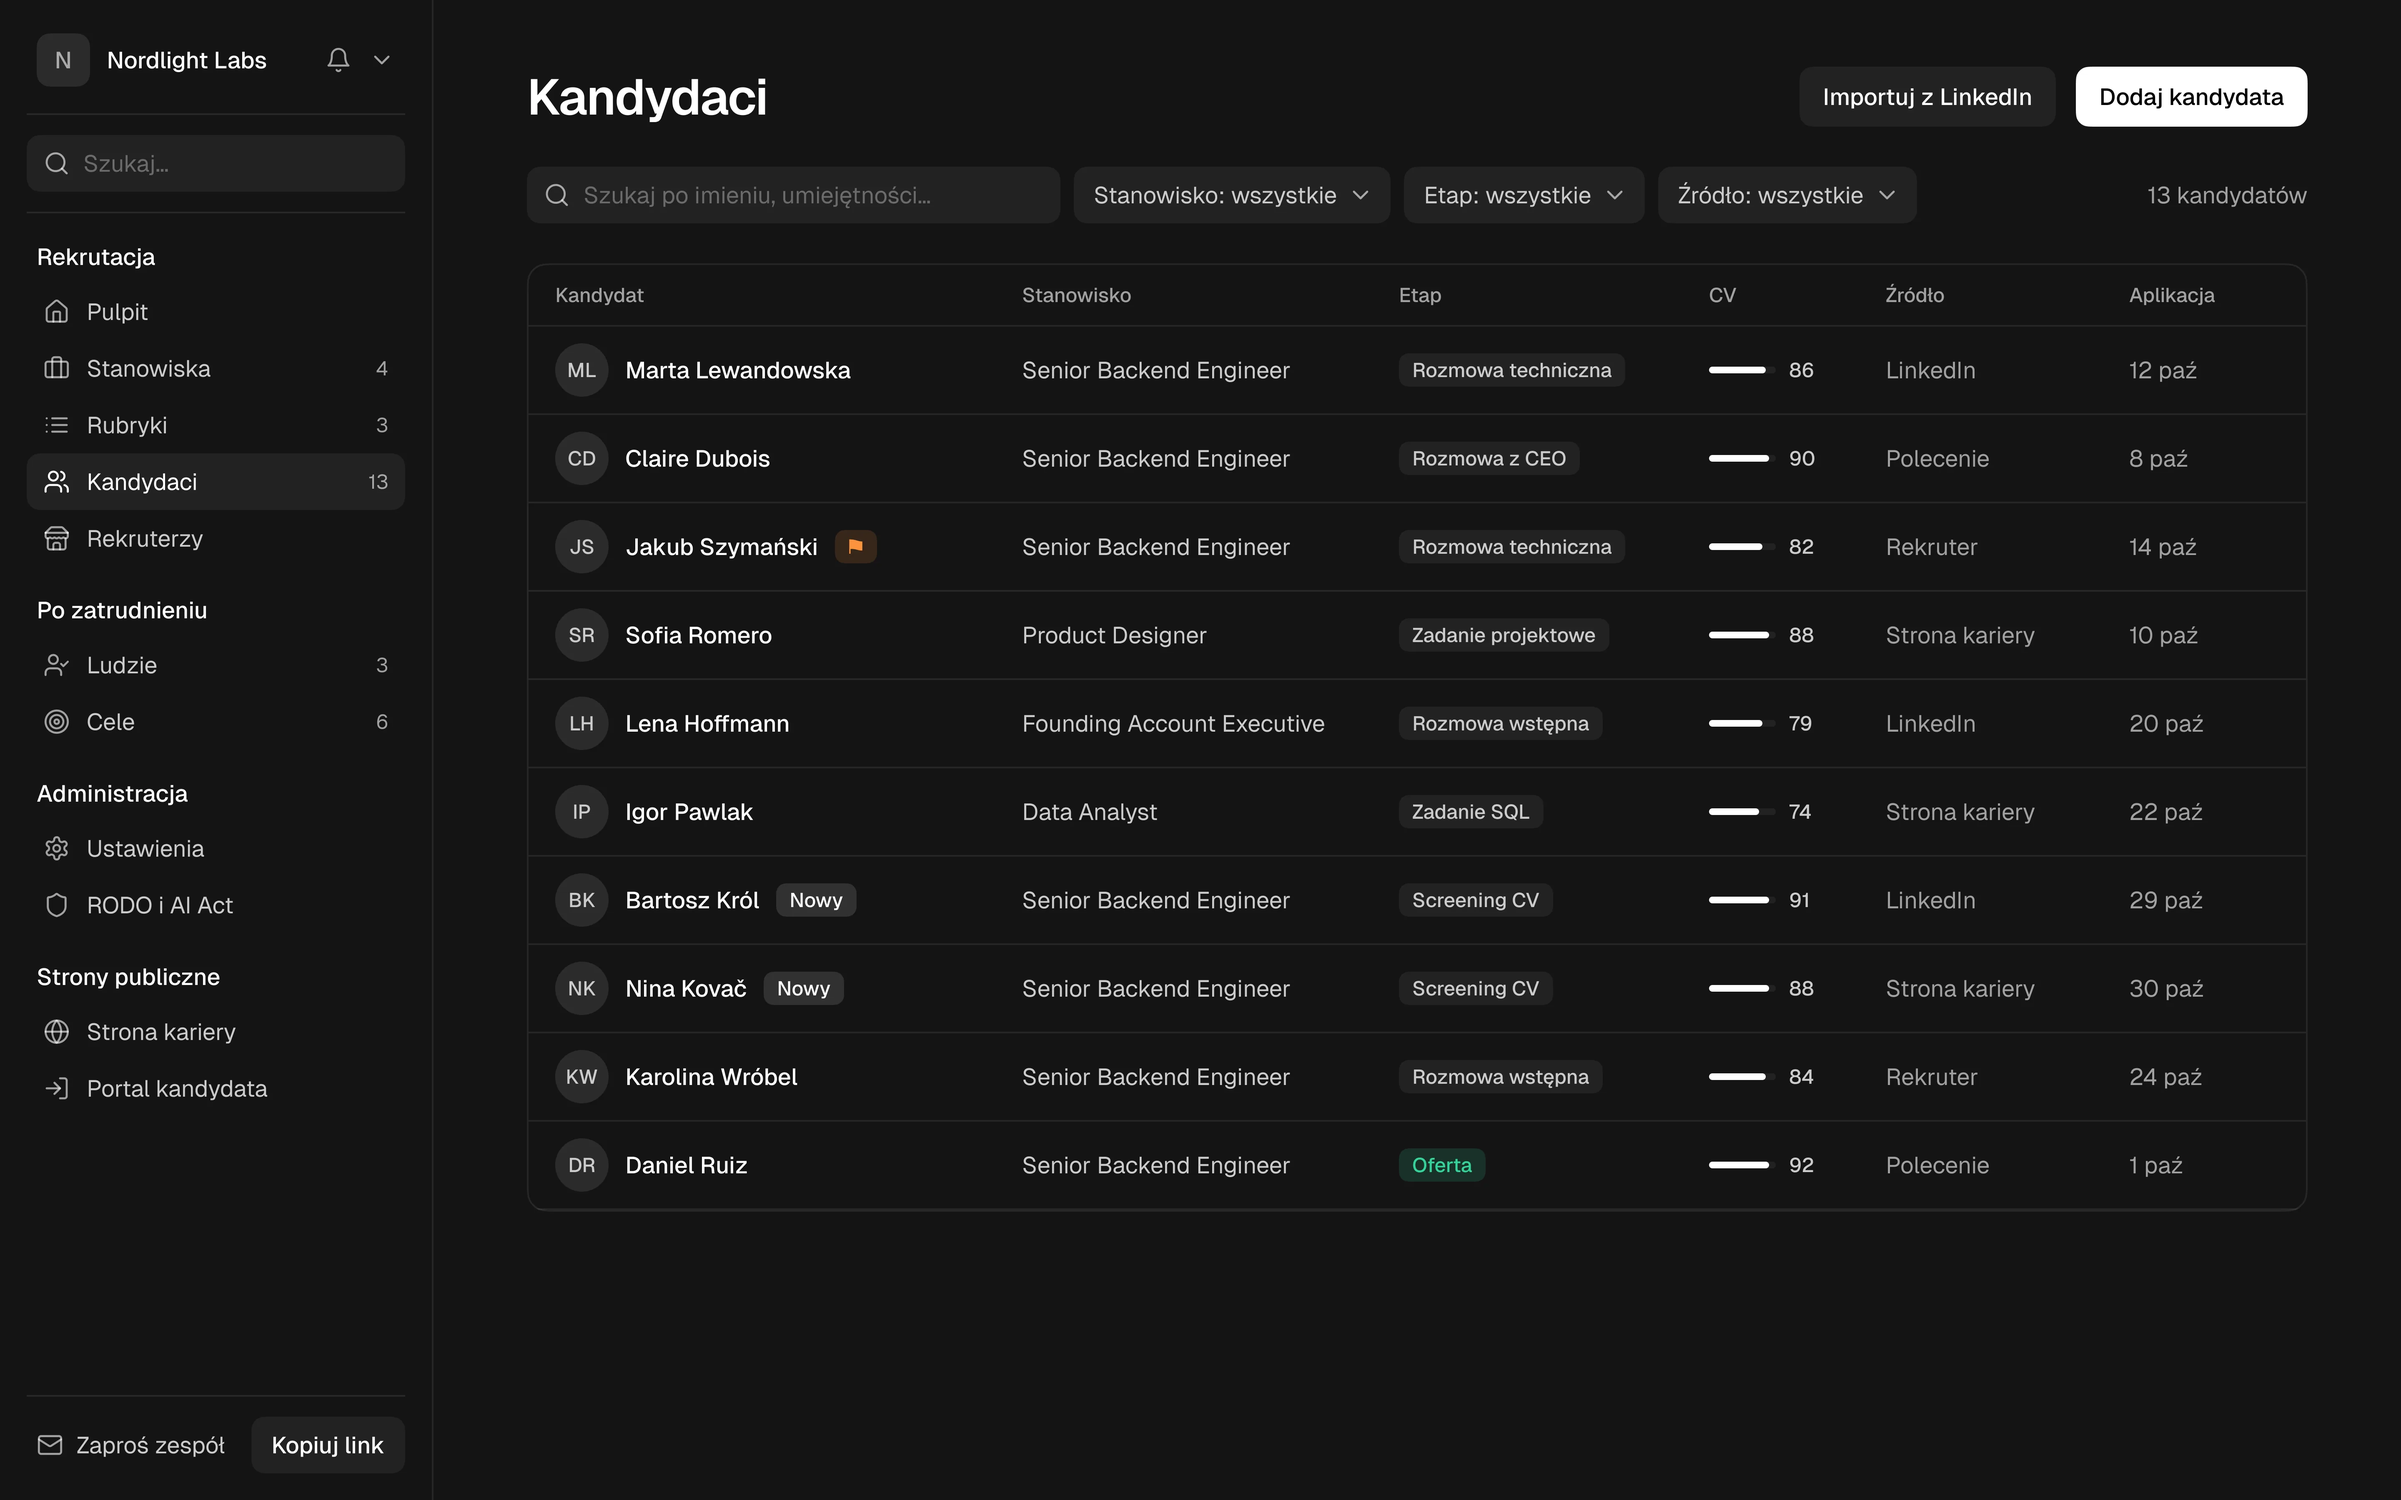
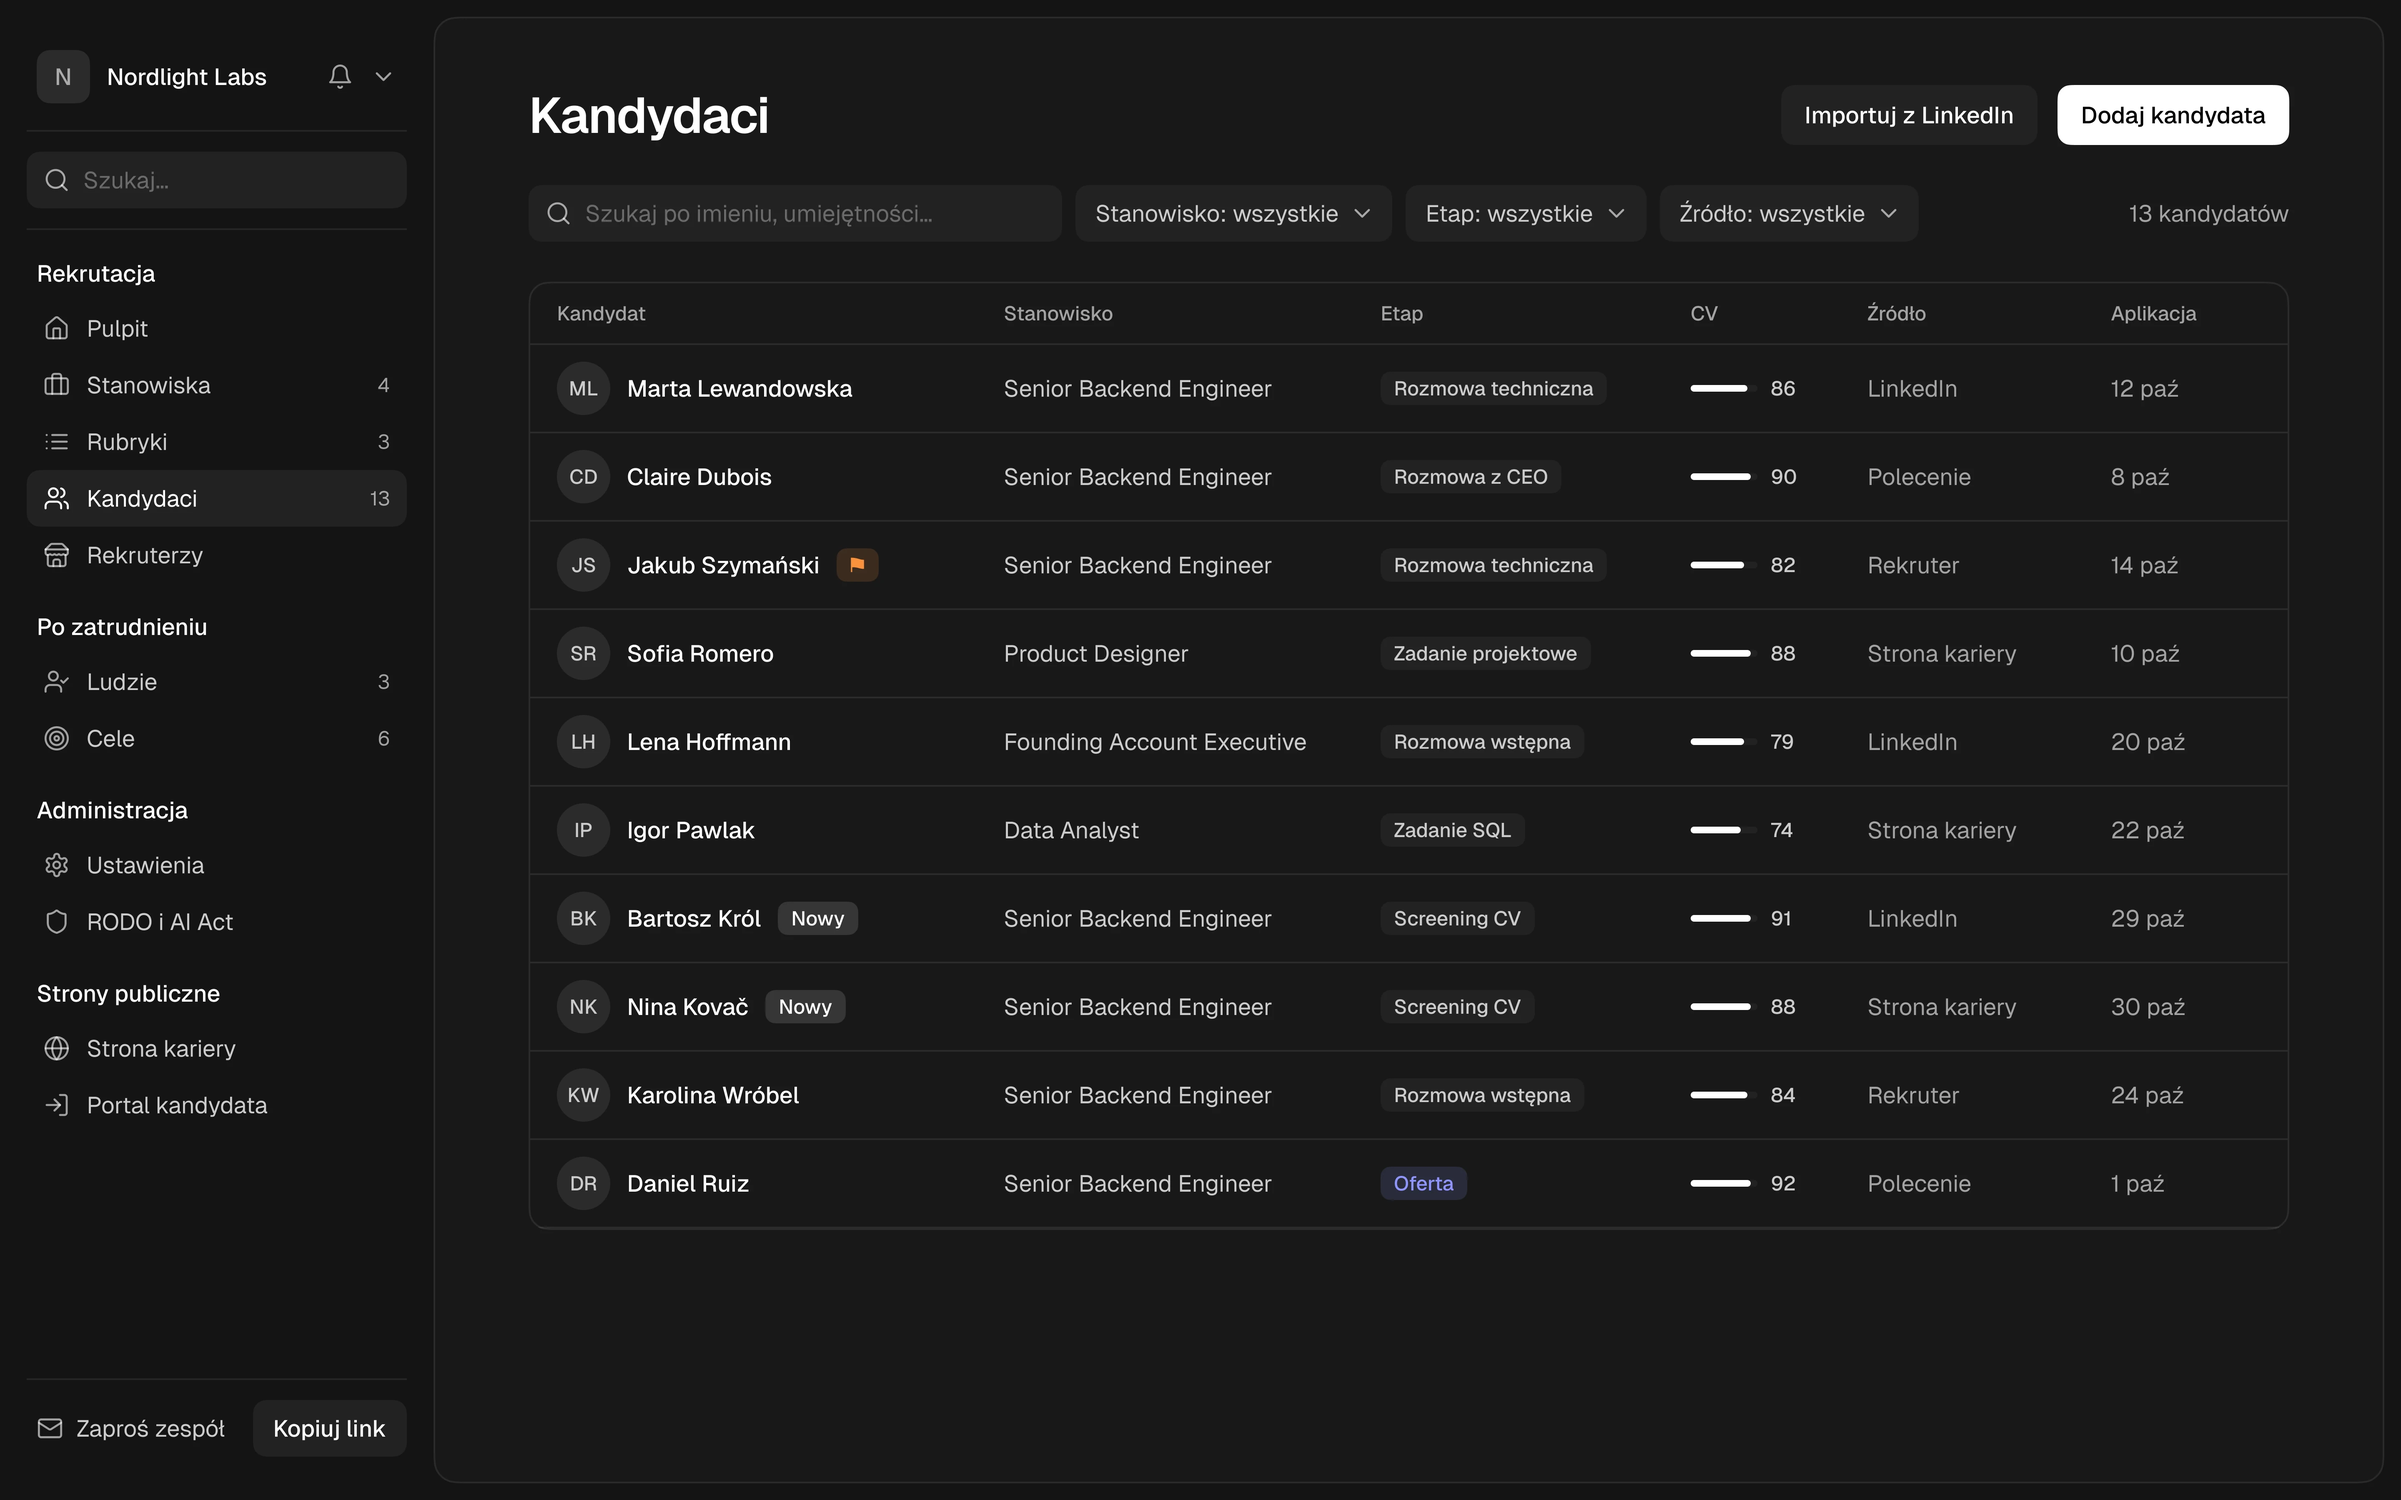
Galeria ekranów: styl Linear (wcięty panel, ciepła szarość, indygo AI), eksport x4
Claude-Session: https://claude.ai/code/session_011jafF1ujRt61ECkovT2K22

diff --git a/site/index.html b/site/index.html
@@ -266,10 +266,10 @@
       <h2>Tak wygląda Tekma <span class="gr">w środku.</span></h2>
       <p class="lede">Prawdziwe ekrany aplikacji, z danymi przykładowymi. Jasne, spokojne, bez zbędnych ozdobników.</p>
     </div>
-    <div class="shots" id="shots" data-shots='[{"src": "assets/screens/dashboard.webp", "t": "Pulpit", "d": "Co dziś wymaga Twojej uwagi — rozbieżne oceny, braki w stanowiskach, liczniki procesu.", "w": 1440, "h": 1014}, {"src": "assets/screens/positions.webp", "t": "Stanowiska", "d": "Wszystkie rekrutacje w jednym miejscu, z mini-lejkiem i rubryką przypisaną do roli.", "w": 1440, "h": 900}, {"src": "assets/screens/pipeline.webp", "t": "Lejek", "d": "Kandydaci w etapach. Przeciągnij kartę albo użyj klawiatury — o ruchu zawsze decydujesz Ty.", "w": 1440, "h": 900}, {"src": "assets/screens/candidates.webp", "t": "Kandydaci", "d": "Wspólna baza z wyszukiwaniem, filtrami i dopasowaniem CV jako sugestią AI.", "w": 1440, "h": 900}, {"src": "assets/screens/scorecard.webp", "t": "Karta oceny", "d": "Pytania z rubryki, kotwice ocen i sugestie AI z cytatem z rozmowy.", "w": 1440, "h": 900}, {"src": "assets/screens/scorecard-diff.webp", "t": "Rozbieżności", "d": "Gdy oceny są rozbieżne, Tekma flaguje to, zanim zapadnie decyzja.", "w": 1440, "h": 934}, {"src": "assets/screens/rubrics.webp", "t": "Rubryki", "d": "Pytania, wagi i kotwice w wersjach — ta sama miarka dla każdego kandydata.", "w": 1440, "h": 900}]'>
+    <div class="shots" id="shots" data-shots='[{"src": "assets/screens/dashboard.webp?v=linear1", "t": "Pulpit", "d": "Co dziś wymaga Twojej uwagi — rozbieżne oceny, braki w stanowiskach, liczniki procesu.", "w": 1440, "h": 1014}, {"src": "assets/screens/positions.webp?v=linear1", "t": "Stanowiska", "d": "Wszystkie rekrutacje w jednym miejscu, z mini-lejkiem i rubryką przypisaną do roli.", "w": 1440, "h": 900}, {"src": "assets/screens/pipeline.webp?v=linear1", "t": "Lejek", "d": "Kandydaci w etapach. Przeciągnij kartę albo użyj klawiatury — o ruchu zawsze decydujesz Ty.", "w": 1440, "h": 900}, {"src": "assets/screens/candidates.webp?v=linear1", "t": "Kandydaci", "d": "Wspólna baza z wyszukiwaniem, filtrami i dopasowaniem CV jako sugestią AI.", "w": 1440, "h": 900}, {"src": "assets/screens/scorecard.webp?v=linear1", "t": "Karta oceny", "d": "Pytania z rubryki, kotwice ocen i sugestie AI z cytatem z rozmowy.", "w": 1440, "h": 900}, {"src": "assets/screens/scorecard-diff.webp?v=linear1", "t": "Rozbieżności", "d": "Gdy oceny są rozbieżne, Tekma flaguje to, zanim zapadnie decyzja.", "w": 1440, "h": 934}, {"src": "assets/screens/rubrics.webp?v=linear1", "t": "Rubryki", "d": "Pytania, wagi i kotwice w wersjach — ta sama miarka dla każdego kandydata.", "w": 1440, "h": 900}]'>
       <div class="shots-tabs" role="tablist" aria-label="Ekrany aplikacji"><button type="button" role="tab" id="tab-dashboard" aria-selected="true" aria-controls="shot" data-i="0" tabindex="0">Pulpit</button><button type="button" role="tab" id="tab-positions" aria-selected="false" aria-controls="shot" data-i="1" tabindex="-1">Stanowiska</button><button type="button" role="tab" id="tab-pipeline" aria-selected="false" aria-controls="shot" data-i="2" tabindex="-1">Lejek</button><button type="button" role="tab" id="tab-candidates" aria-selected="false" aria-controls="shot" data-i="3" tabindex="-1">Kandydaci</button><button type="button" role="tab" id="tab-scorecard" aria-selected="false" aria-controls="shot" data-i="4" tabindex="-1">Karta oceny</button><button type="button" role="tab" id="tab-scorecard-diff" aria-selected="false" aria-controls="shot" data-i="5" tabindex="-1">Rozbieżności</button><button type="button" role="tab" id="tab-rubrics" aria-selected="false" aria-controls="shot" data-i="6" tabindex="-1">Rubryki</button></div>
       <figure class="shots-stage" id="shot" role="tabpanel" aria-labelledby="tab-dashboard">
-        <div class="shot-frame"><img id="shotImg" src="assets/screens/dashboard.webp" width="1440" height="1014" alt="Pulpit Tekma: liczniki procesu i lista spraw wymagających uwagi" loading="lazy"></div>
+        <div class="shot-frame"><img id="shotImg" src="assets/screens/dashboard.webp?v=linear1" width="1440" height="1014" alt="Pulpit Tekma: liczniki procesu i lista spraw wymagających uwagi" loading="lazy"></div>
         <figcaption id="shotCap"><b>Pulpit</b> Co dziś wymaga Twojej uwagi — rozbieżne oceny, braki w stanowiskach, liczniki procesu.</figcaption>
       </figure>
     </div>
